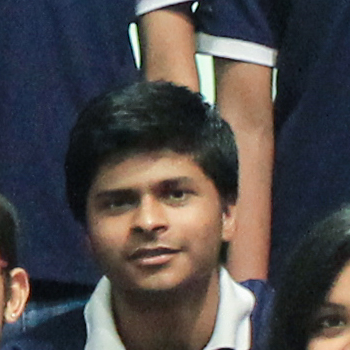
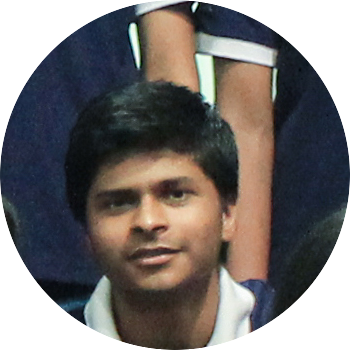
Add cropped photos of members, add names

diff --git a/TheClub.html b/TheClub.html
@@ -50,7 +50,7 @@
                 <a class="navbar-brand page-scroll precursive no-padding" href="#page-top"><img src="img/logo.png" height="52px" style="padding-left: 10px"></a>
             </div>
 
-            <!-- Collect the nav links, forms, and other content for toggling -->
+            <!-- Collect the nav links, forms, and other content for toggling >
             <div class="collapse navbar-collapse" id="bs-example-navbar-collapse-1">
                 <ul class="nav navbar-nav navbar-right">
                     <li>
@@ -66,7 +66,7 @@
                         <a class="page-scroll" href="#contact">Contact</a>
                     </li>
                 </ul>
-            </div>
+            </div-->
             <!-- /.navbar-collapse -->
         </div>
         <!-- /.container-fluid -->
@@ -113,12 +113,17 @@
                 </ul-->
                 <div class="col-lg-12 text-center">
                     <img src="img/Team/Neel.png" height=150px>
+                    <p class="americanCaptain noUnderline" style="font-size: 3em"><a href="" >Neel Karnik</a></p>
+                </div>
+                <div class="col-lg-12 col-md-12 text-center" style="padding-top: 100px">
                 </div>
                 <div class="col-lg-6 col-md-6 text-center">
                     <img src="img/Team/Aamir.png" height=150px>
+                    <p class="americanCaptain noUnderline" style="font-size: 3em"><a href="" >Aamir Shams</a></p>
                 </div>
                 <div class="col-lg-6 col-md-6 text-center">
                     <img src="img/Team/Rohan.png" height=150px>
+                    <p class="americanCaptain noUnderline" style="font-size: 3em"><a href="" >Rohan Vardhan</a></p>
                 </div>
                 <div class="col-lg-12 col-md-12 text-center" style="padding-top: 50px; padding-bottom: 50px">
                     <hr>
@@ -127,19 +132,24 @@
                 <div class="col-lg-1 col-md-1 text-center">
                 </div>
                 <div class="col-lg-2 col-md-2 text-center">
-                    <img src="img/Team/.png" height=150px>
+                    <img src="img/Team/ABD.png" height=150px>
+                    <p class="americanCaptain noUnderline" style="font-size: 3em"><a href="" >Abdur Rahman</a></p>
                 </div>
                 <div class="col-lg-2 col-md-2 text-center">
-                    <img src="img/Team/.png" height=150px>
+                    <img src="img/Team/Aman.png" height=150px>
+                    <p class="americanCaptain noUnderline" style="font-size: 3em"><a href="" >Aman Alam</a></p>
                 </div>
                 <div class="col-lg-2 col-md-2 text-center">
-                    <img src="img/Team/.png" height=150px>
+                    <img src="img/Team/Ivy.png" height=150px>
+                    <p class="americanCaptain noUnderline" style="font-size: 3em"><a href="" >Ivy Maji</a></p>
                 </div>
                 <div class="col-lg-2 col-md-2 text-center">
-                    <img src="img/Team/.png" height=150px>
+                    <img src="img/Team/Rajat.png" height=150px>
+                    <p class="americanCaptain noUnderline" style="font-size: 3em"><a href="" >Rajat Asthana</a></p>
                 </div>
                 <div class="col-lg-2 col-md-2 text-center">
-                    <img src="img/Team/.png" height=150px>
+                    <img src="img/Team/Rishabh.png" height=150px>
+                    <p class="americanCaptain noUnderline" style="font-size: 3em"><a href="" >Rishabh Karajgi</a></p>
                 </div>
                 <div class="col-lg-1 col-md-1 text-center">
                 </div>
@@ -148,19 +158,24 @@
                 <div class="col-lg-1 col-md-1 text-center">
                 </div>
                 <div class="col-lg-2 col-md-2 text-center">
-                    <img src="img/Team/.png" height=150px>
+                    <img src="img/Team/Satyam.png" height=150px>
+                    <p class="americanCaptain noUnderline" style="font-size: 3em"><a href="" >Satyam Trivedi</a></p>
                 </div>
                 <div class="col-lg-2 col-md-2 text-center">
-                    <img src="img/Team/.png" height=150px>
+                    <img src="img/Team/Saumyajit.png" height=150px>
+                    <p class="americanCaptain noUnderline" style="font-size: 3em"><a href="" >Saumyajit Dey</a></p>
                 </div>
                 <div class="col-lg-2 col-md-2 text-center">
-                    <img src="img/Team/.png" height=150px>
+                    <img src="img/Team/Shuvam.png" height=150px>
+                    <p class="americanCaptain noUnderline" style="font-size: 3em"><a href="" >Shuvam Sinha</a></p>
                 </div>
                 <div class="col-lg-2 col-md-2 text-center">
-                    <img src="img/Team/.png" height=150px>
+                    <img src="img/Team/Swatah.png" height=150px>
+                    <p class="americanCaptain noUnderline" style="font-size: 3em"><a href="" >Swatah</a></p>
                 </div>
                 <div class="col-lg-2 col-md-2 text-center">
-                    <img src="img/Team/.png" height=150px>
+                    <img src="img/Team/Unmesh.png" height=150px>
+                    <p class="americanCaptain noUnderline" style="font-size: 3em"><a href="" >Unmesh Daga</a></p>
                 </div>
                 <div class="col-lg-1 col-md-1 text-center">
                 </div>
@@ -171,41 +186,52 @@
                 <div class="col-lg-1 col-md-1 text-center">
                 </div>
                 <div class="col-lg-2 col-md-2 text-center">
-                    <img src="img/Team/.png" height=150px>
+                    <img src="img/Team/Anisha.png" height=150px>
+                    <p class="americanCaptain noUnderline" style="font-size: 3em"><a href="" >Anisha Krishnakumar</a></p>
                 </div>
                 <div class="col-lg-2 col-md-2 text-center">
-                    <img src="img/Team/.png" height=150px>
+                    <img src="img/Team/Deepshika.png" height=150px>
+                    <p class="americanCaptain noUnderline" style="font-size: 3em"><a href="" >Deepshika Arasu</a></p>
                 </div>
                 <div class="col-lg-2 col-md-2 text-center">
-                    <img src="img/Team/.png" height=150px>
+                    <img src="img/Team/Gaurav.png" height=150px>
+                    <p class="americanCaptain noUnderline" style="font-size: 3em"><a href="" >Gaurav Mahendra</a></p>
                 </div>
                 <div class="col-lg-2 col-md-2 text-center">
-                    <img src="img/Team/.png" height=150px>
+                    <img src="img/Team/Gulrez.png" height=150px>
+                    <p class="americanCaptain noUnderline" style="font-size: 3em"><a href="" >Gulrez Rasool</a></p>
                 </div>
                 <div class="col-lg-2 col-md-2 text-center">
-                    <img src="img/Team/.png" height=150px>
+                    <img src="img/Team/Jahnawi.png" height=150px>
+                    <p class="americanCaptain noUnderline" style="font-size: 3em"><a href="" >Jahnawi Priya</a></p>
                 </div>
                 <div class="col-lg-1 col-md-1 text-center">
                 </div>
                 <div class="col-lg-12 col-md-12 text-center" style="padding-top: 100px">
                 </div>
                 <div class="col-lg-2 col-md-2 text-center">
-                    <img src="img/Team/.png" height=150px>
+                    <img src="img/Team/Milind.png" height=150px>
+                    <p class="americanCaptain noUnderline" style="font-size: 3em"><a href="" >Milind Sheth</a></p>
                 </div>
                 <div class="col-lg-2 col-md-2 text-center">
-                    <img src="img/Team/.png" height=150px>
+                    <img src="img/Team/Moujiz.png" height=150px>
+                    <p class="americanCaptain noUnderline" style="font-size: 3em"><a href="" >Moujiz Ali D</a></p>
                 </div>
                 <div class="col-lg-2 col-md-2 text-center">
-                    <img src="img/Team/.png" height=150px>
+                    <img src="img/Team/Ranul.png" height=150px>
+                    <p class="americanCaptain noUnderline" style="font-size: 3em"><a href="" >Ranul Jain</a></p>
                 </div>
                 <div class="col-lg-2 col-md-2 text-center">
-                    <img src="img/Team/.png" height=150px>
+                    <img src="img/Team/Sai.png" height=150px>
+                    <p class="americanCaptain noUnderline" style="font-size: 3em"><a href="" >Sai Kumar Reddy</a></p>
                 </div>
                 <div class="col-lg-2 col-md-2 text-center">
-                    <img src="img/Team/.png" height=150px>
+                    <img src="img/Team/Shashank.png" height=150px>
+                    <p class="americanCaptain noUnderline" style="font-size: 3em"><a href="" >Shashank Kasala</a></p>
                 </div>
                 <div class="col-lg-2 col-md-2 text-center">
-                    <img src="img/Team/.png" height=150px>
+                    <img src="img/Team/TheDarkKnight.png" height=150px>
+                    <p class="americanCaptain noUnderline" style="font-size: 3em"><a href="" >Sreetam Das</a></p>
                 </div>
                 <div class="col-lg-12 col-md-12 text-center" style="padding-top: 50px; padding-bottom: 50px">
                     <hr>
@@ -214,19 +240,24 @@
                 <div class="col-lg-1 col-md-1 text-center">
                 </div>
                 <div class="col-lg-2 col-md-2 text-center">
-                    <img src="img/Team/.png" height=150px>
+                    <img src="img/Team/Parth.png" height=150px>
+                    <p class="americanCaptain noUnderline" style="font-size: 3em"><a href="" >Neel Karnik</a></p>
+                </div>
+                <div class="col-lg-2 col-md-2 text-center">
+                    <img src="img/Team/Random1.png" height=150px>
+                    <p class="americanCaptain noUnderline" style="font-size: 3em"><a href="" >Neel Karnik</a></p>
+                </div>
+                <div class="col-lg-2 col-md-2 text-center">
+                    <img src="img/Team/Random2.png" height=150px>
+                    <p class="americanCaptain noUnderline" style="font-size: 3em"><a href="" >Neel Karnik</a></p>
+                </div>
+                <div class="col-lg-2 col-md-2 text-center">
+                    <img src="img/Team/Vallabha.png" height=150px>
+                    <p class="americanCaptain noUnderline" style="font-size: 3em"><a href="" >Neel Karnik</a></p>
                 </div>
                 <div class="col-lg-2 col-md-2 text-center">
                     <img src="img/Team/.png" height=150px>
-                </div>
-                <div class="col-lg-2 col-md-2 text-center">
-                    <img src="img/Team/.png" height=150px>
-                </div>
-                <div class="col-lg-2 col-md-2 text-center">
-                    <img src="img/Team/.png" height=150px>
-                </div>
-                <div class="col-lg-2 col-md-2 text-center">
-                    <img src="img/Team/.png" height=150px>
+                    <p class="americanCaptain noUnderline" style="font-size: 3em"><a href="" >Neel Karnik</a></p>
                 </div>
                 <div class="col-lg-1 col-md-1 text-center">
                 </div>

diff --git a/css/creative.css b/css/creative.css
@@ -150,7 +150,7 @@ aside {
 
 @media(min-width:768px) {
     .navbar-default {
-        border-color: rgba(255,255,255,.3);
+        /*border-color: rgba(255,255,255,.3);*/
         background-color: transparent;
     }
 
@@ -570,5 +570,8 @@ body {
 
 #credits a{
     color: palegreen;
-    border-bottom: dotted 1px;
+}
+
+.noUnderline a:hover{
+    text-decoration: none; !important
 }
